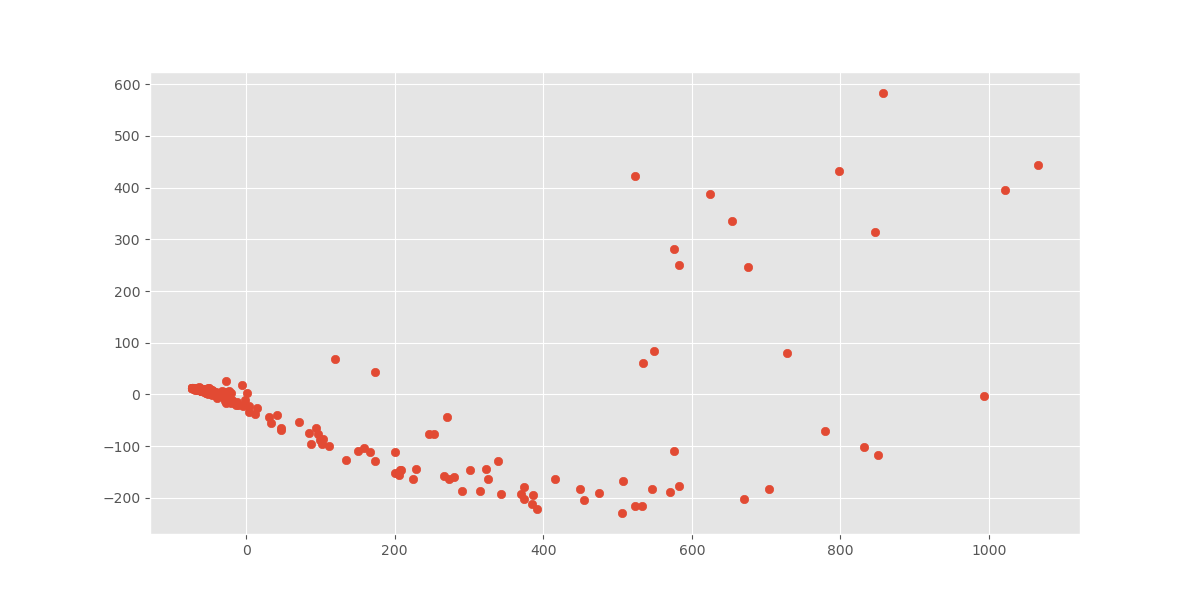
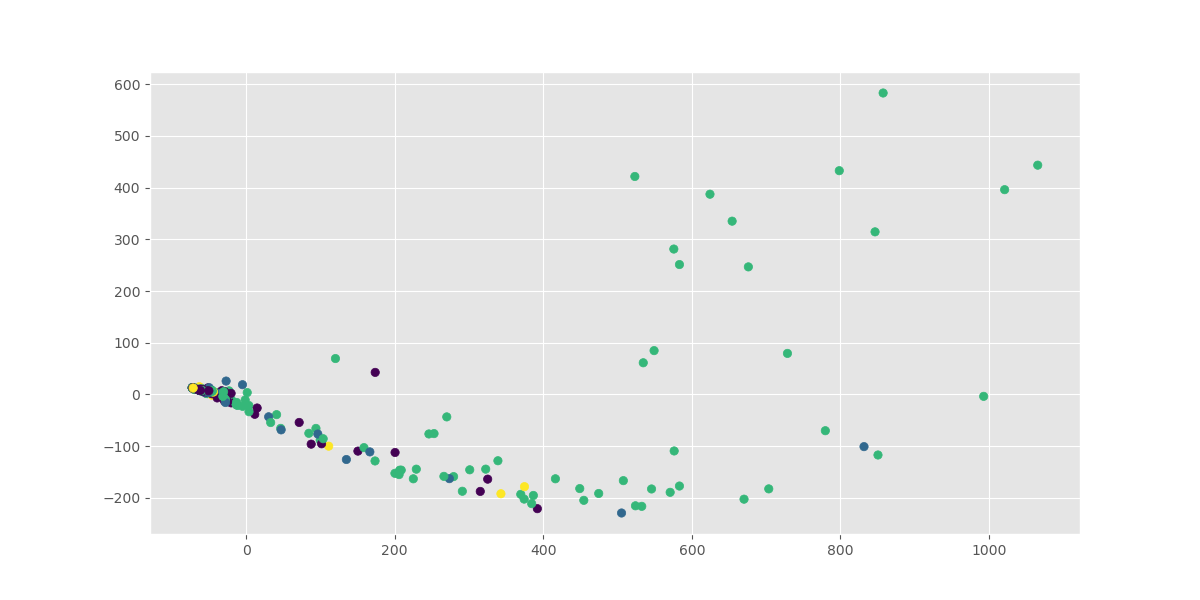
figu

diff --git a/Scripts/pca.py b/Scripts/pca.py
@@ -42,20 +42,32 @@ file = open("../Data/argumentos.txt")
 
 Y = []
 
+def cl(diag):
+	if diag == "Healthy":
+		return 1 
+	if diag == "UC":
+		return 2
+	if diag == "CD":
+		return 3
+	if diag == "Obese":
+		return 4
+
 for line in file:
 	muestra = line[0:(len(line)-1)]
 	for i in range(metadata.shape[0]):
 		if metadata.loc[ i , "SampleID" ] == muestra:
-			Y.append(metadata.loc[i , "Diagnosis"])
+			c = cl(metadata.loc[i , "Diagnosis"]) 
+			Y.append(c)
 
-Y = pd.Series(Y)
+
+Z = pd.Series(Y)
 
 
 componentsDf = pd.DataFrame(data = components, columns = ['PC1', 'PC2'])
-pcaDf = pd.concat([componentsDf, Y], axis=1)
+pcaDf = pd.concat([componentsDf, Z], axis=1)
 
 plt.figure(figsize=(12, 6))
-plt.scatter(data=pcaDf, x="PC1", y="PC2")
+plt.scatter(data=pcaDf, x="PC1", y="PC2" , c = Y)
 plt.savefig("pca_edges.png")
 #sns.scatterplot(data=pcaDf, x="PC1", y="PC2")
 